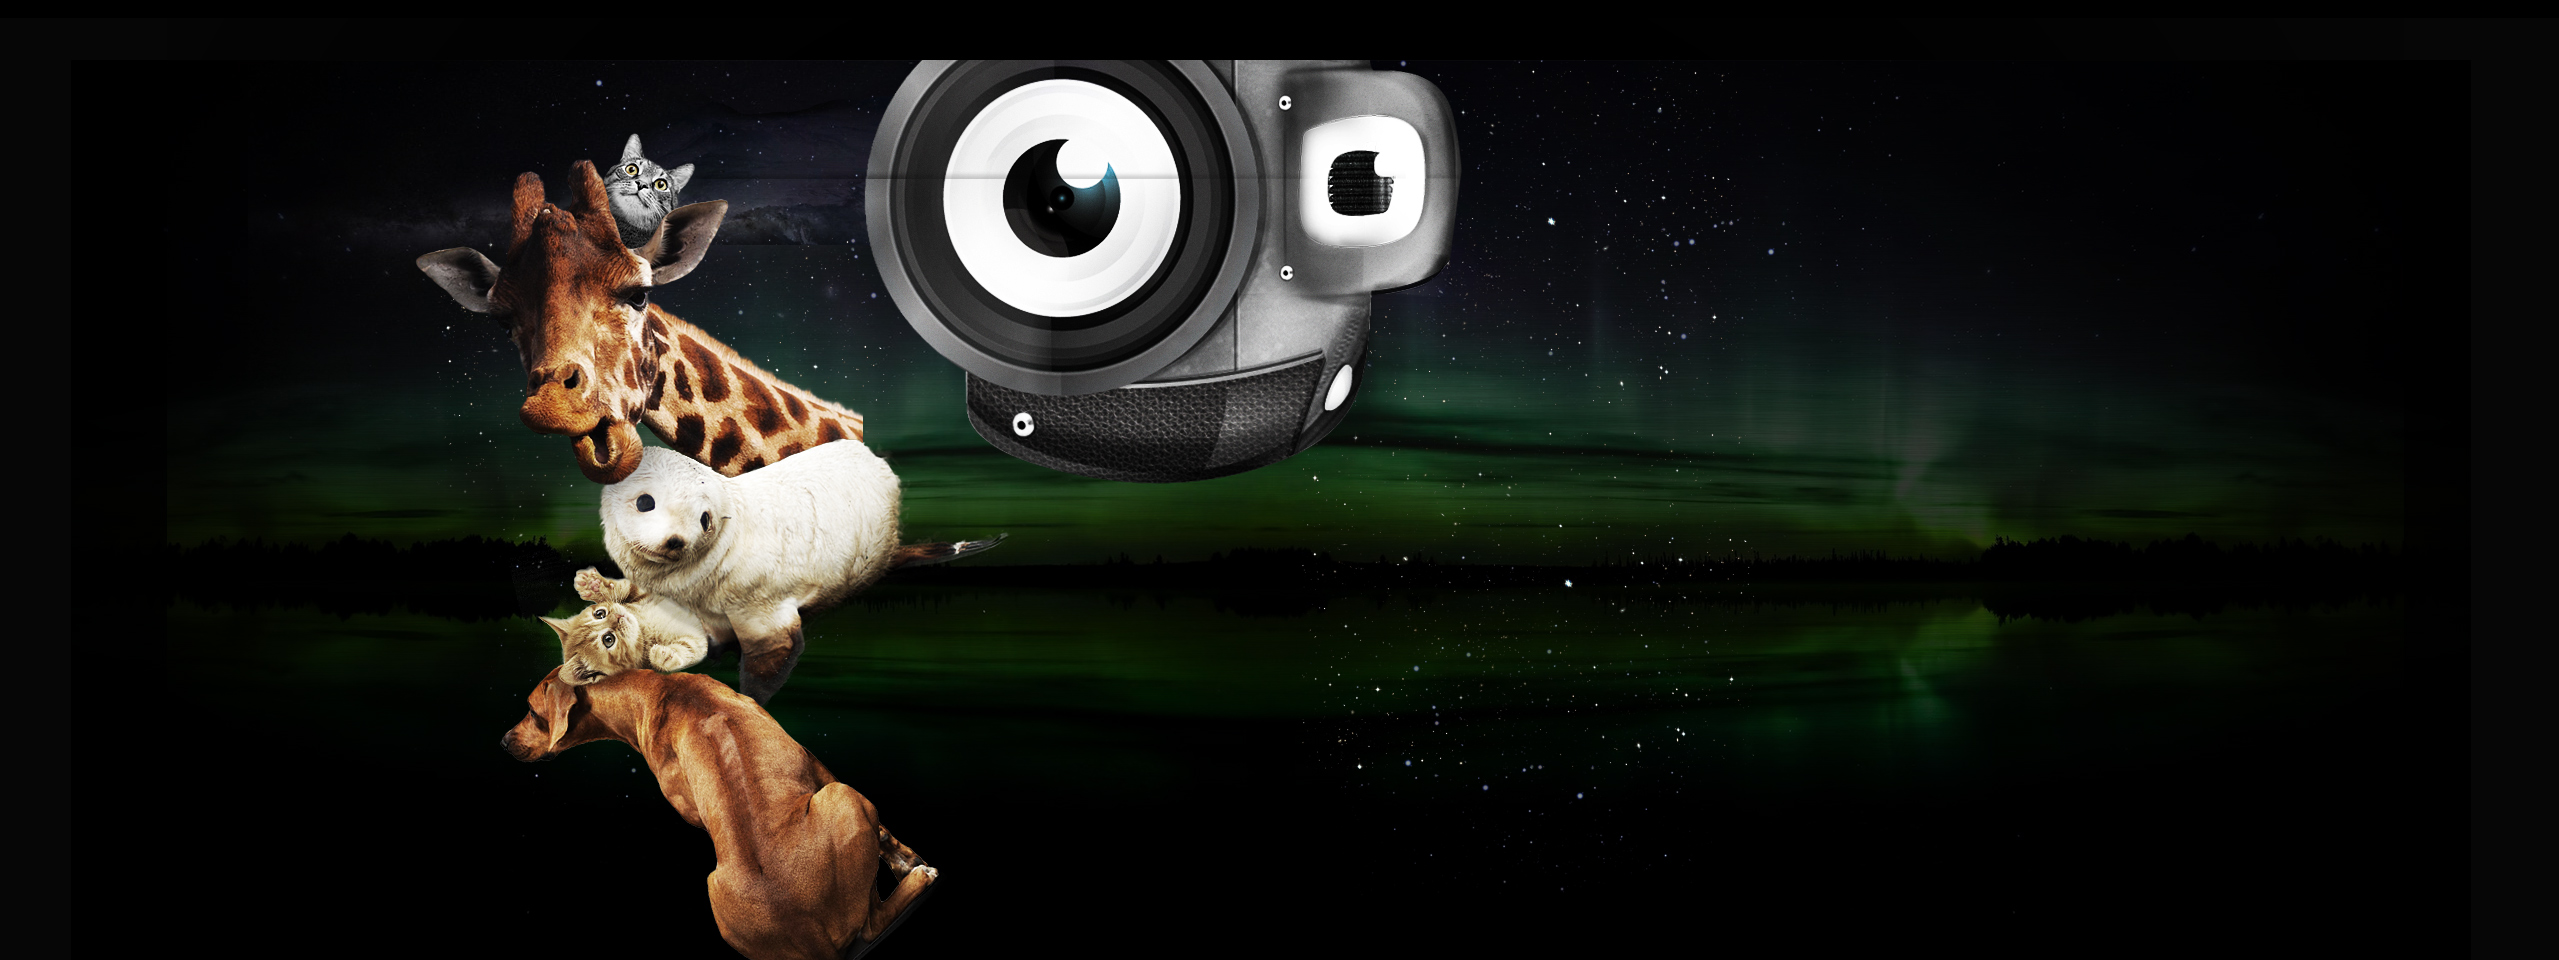
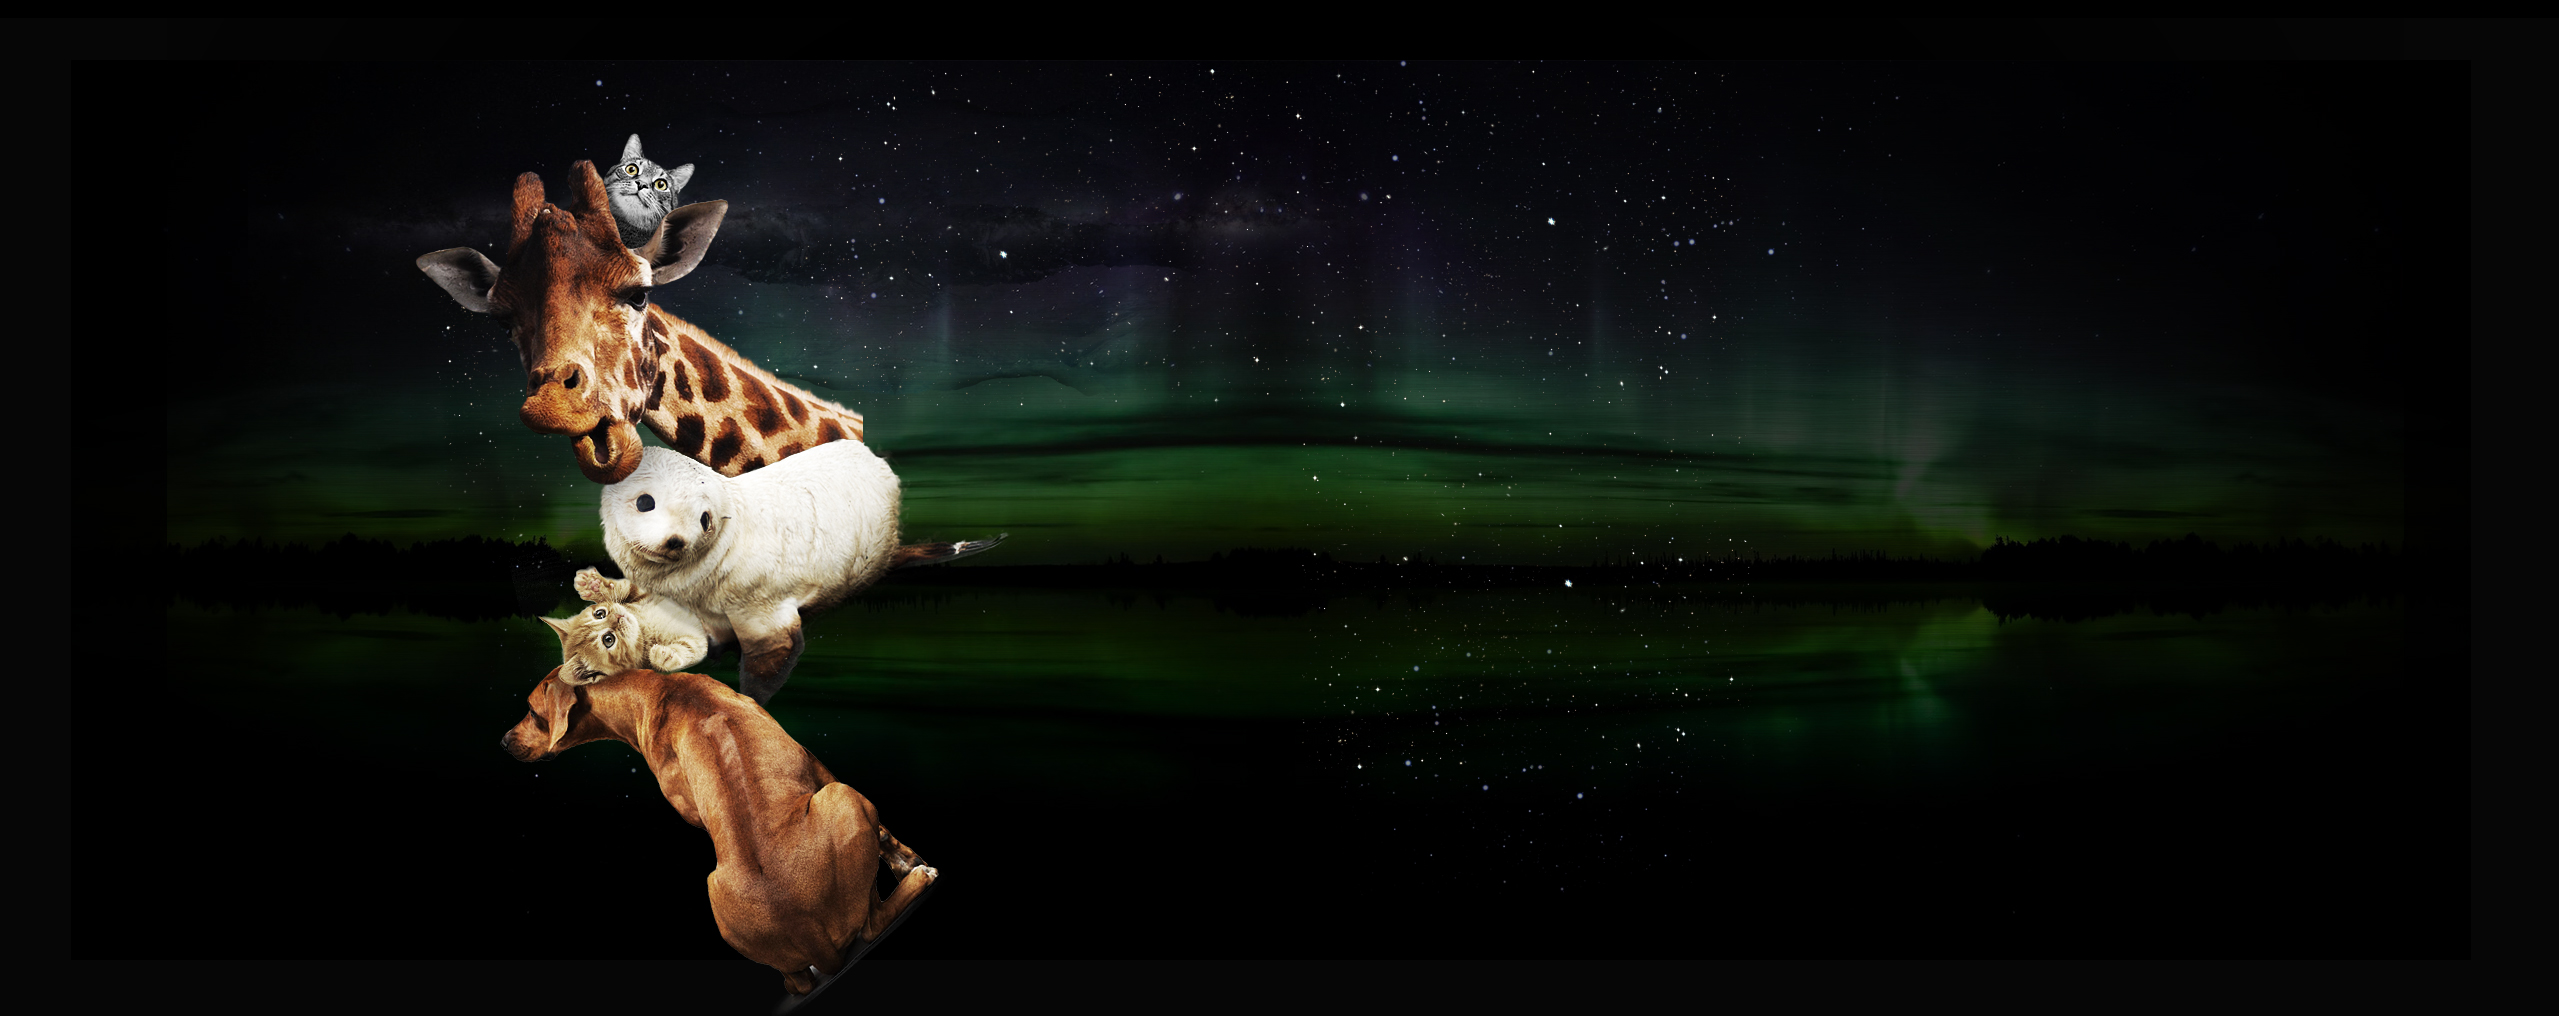
Nouveau back.jpeg sans le robot et ai enlevé la margin-top sur le contenu

diff --git a/punn_it/templates/base.html b/punn_it/templates/base.html
@@ -100,7 +100,7 @@
 {% block top-content %}
     <div class="container hidden-phone" style="margin-top:35px;">
       <div class="row">
-        <div class="span12" style="width: 1170px;margin-top:70px">
+        <div class="span12" style="width: 1170px;">
           <div class="row ">
             <div class="span8 blancBG " style="width: 770px;"> 
 {% endblock %}
